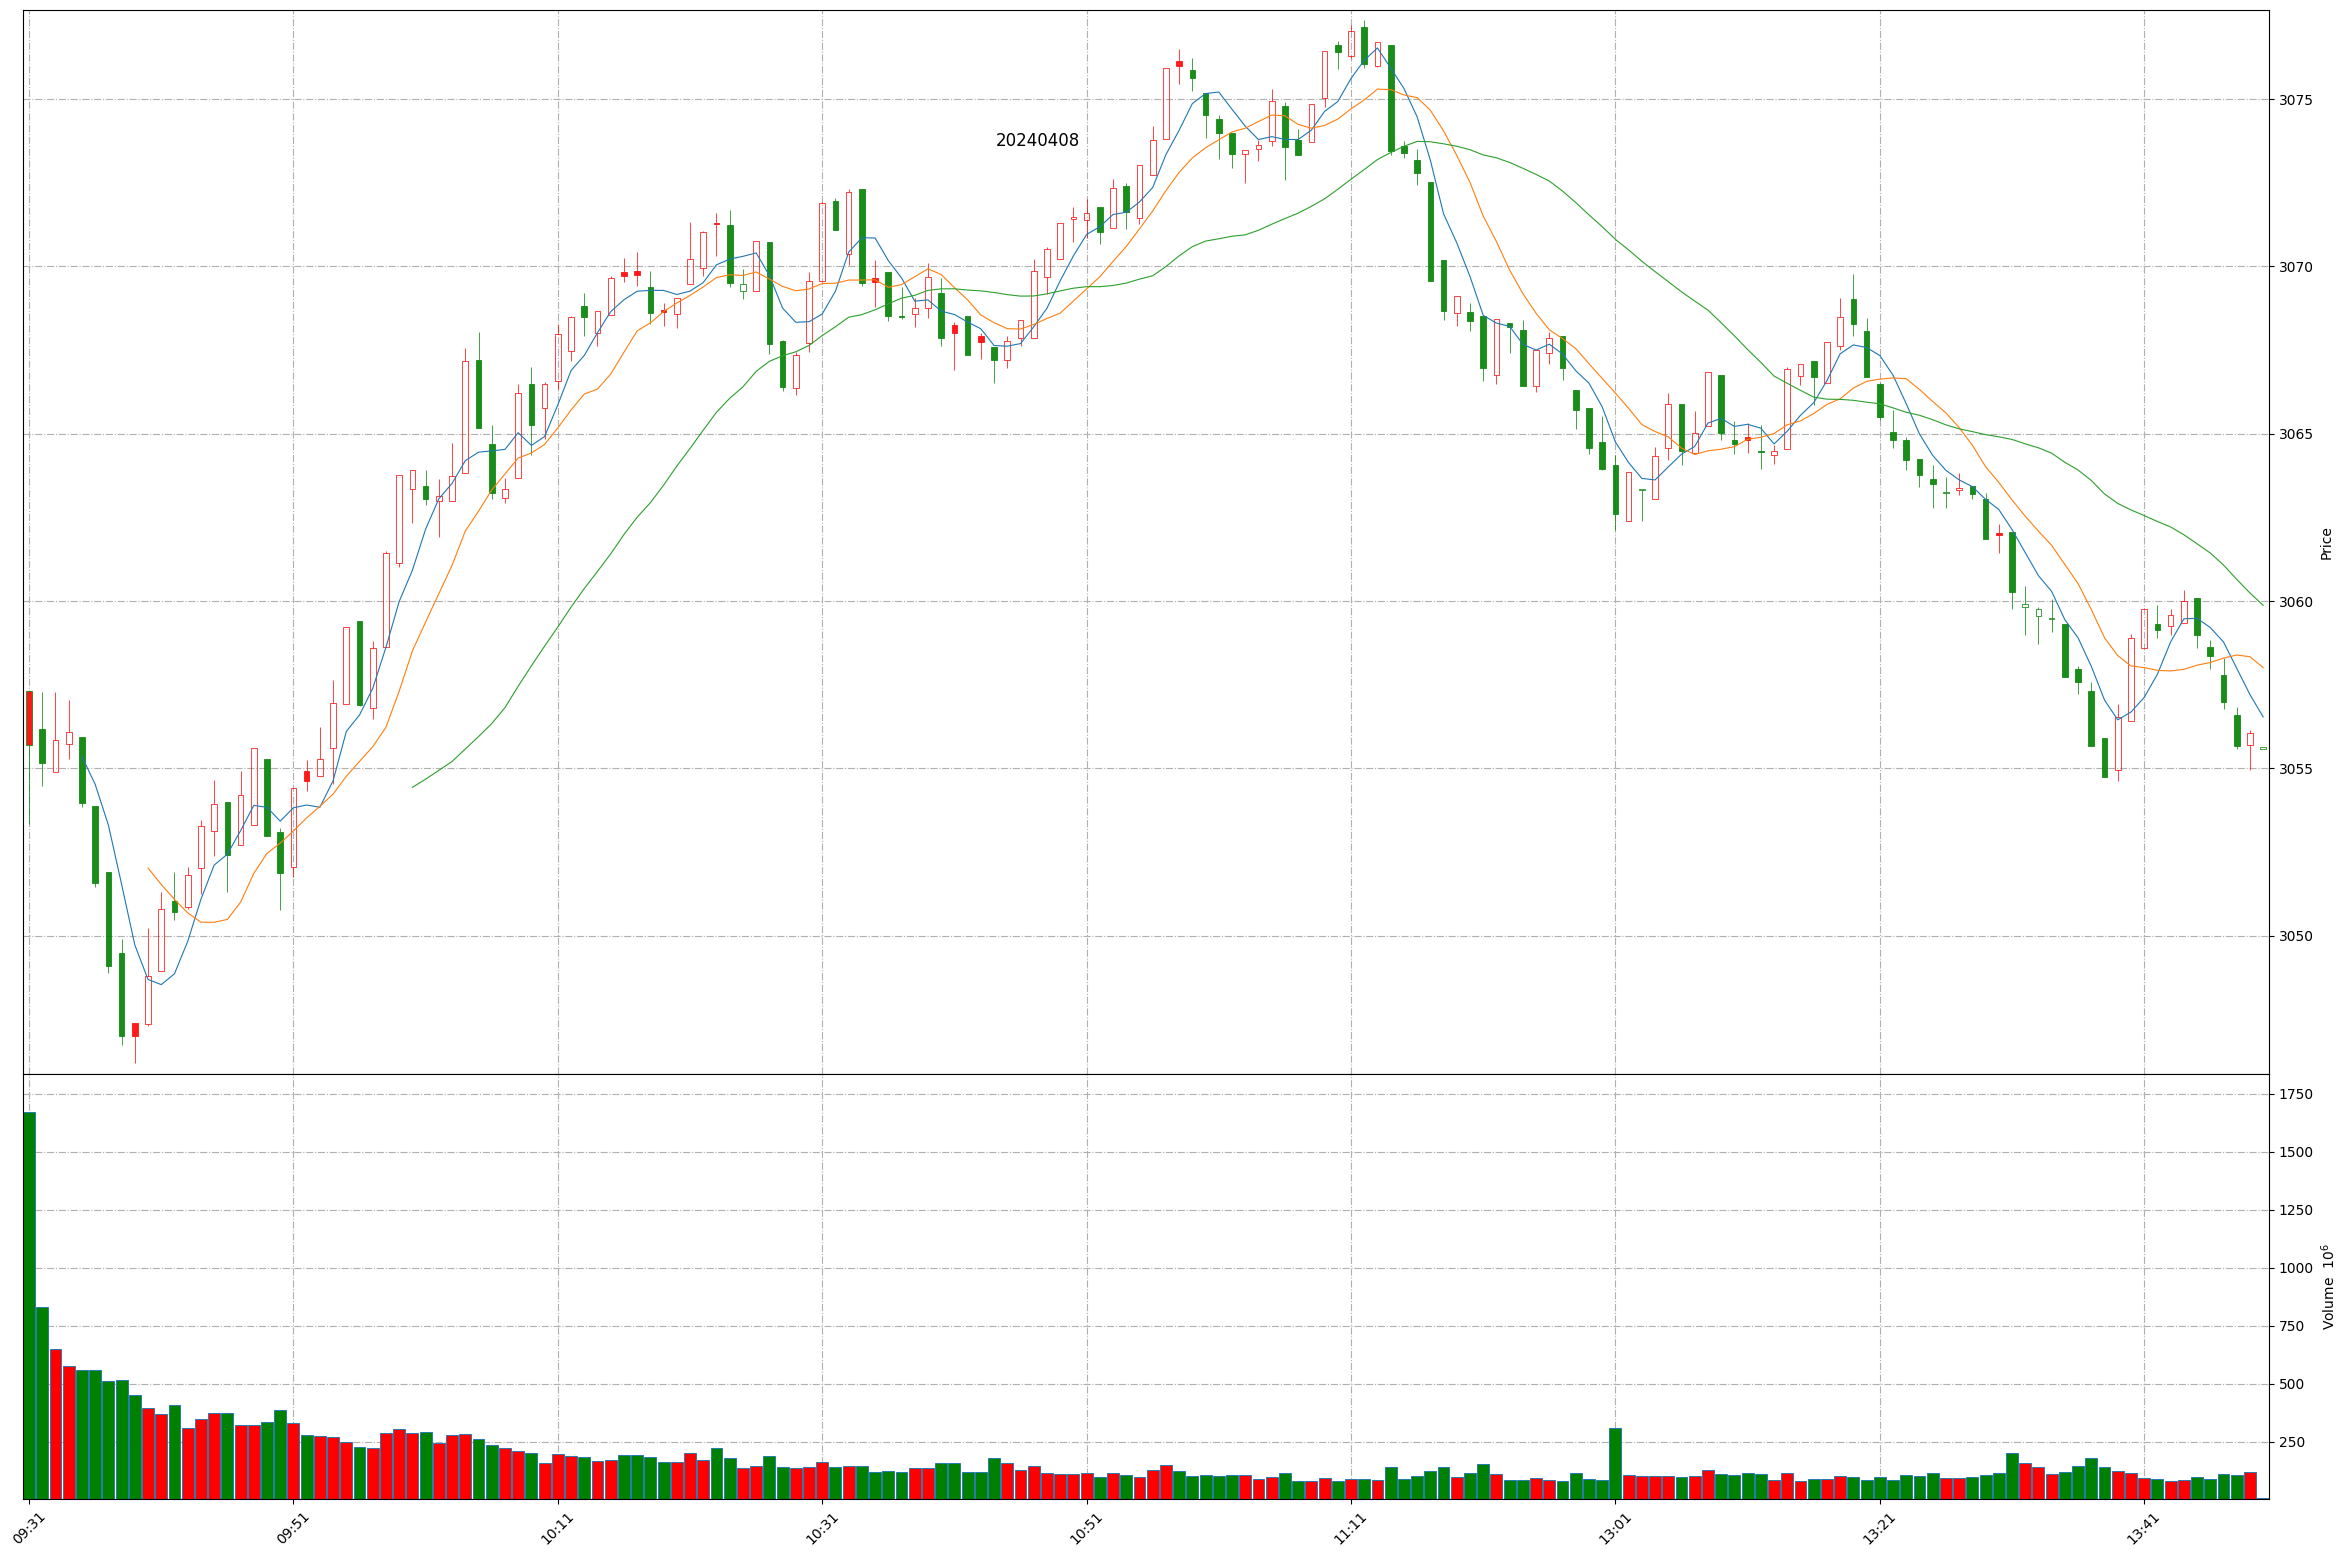
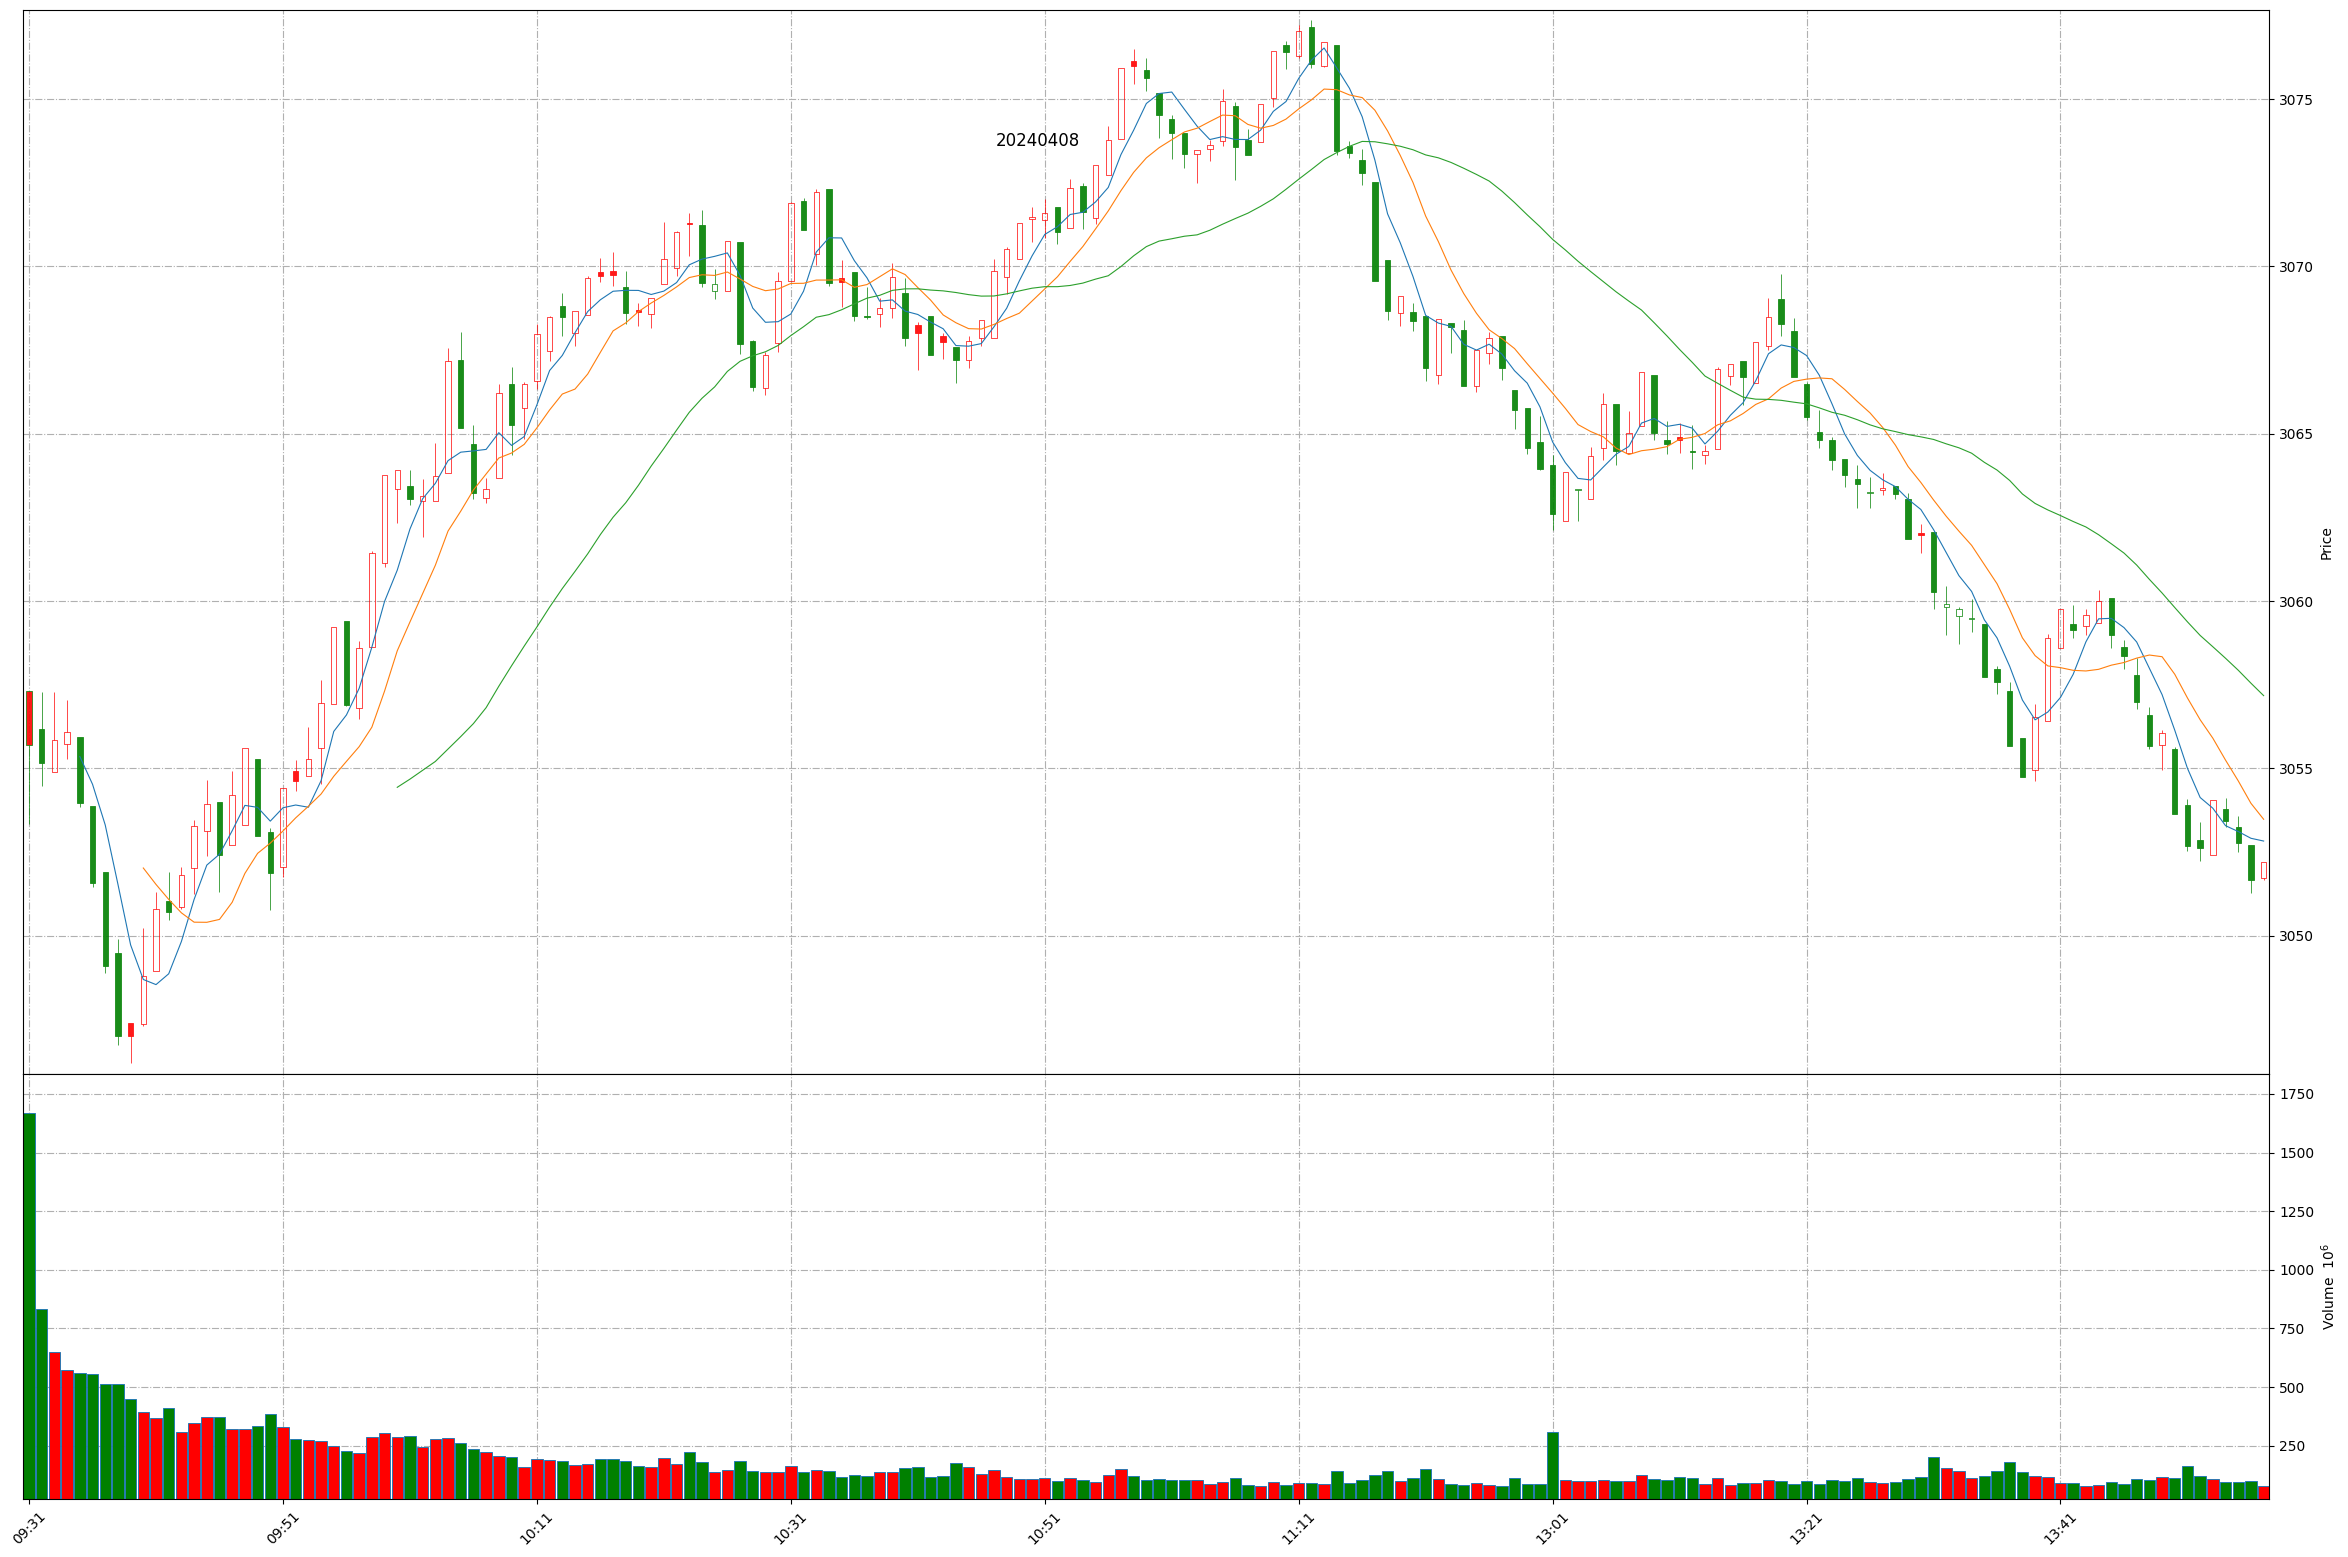
Github action update at 2024-04-08 13:57:04.

diff --git a/README.md b/README.md
@@ -1,11 +1,11 @@
 
 # Daily-A-share-market-quotes 每日 A 股指数（5min 更新）- 20240408
 
-### 上证指数 20240408 13:49
+### 上证指数 20240408 13:57
 ![](./fig/2024/4/20240408-sh000001.png)
 
-### 深证成指 20240408 13:49
+### 深证成指 20240408 13:57
 ![](./fig/2024/4/20240408-sz399001.png)
 
-### 北证50 20240408 13:49
+### 北证50 20240408 13:57
 ![](./fig/2024/4/20240408-bj899050.png)
